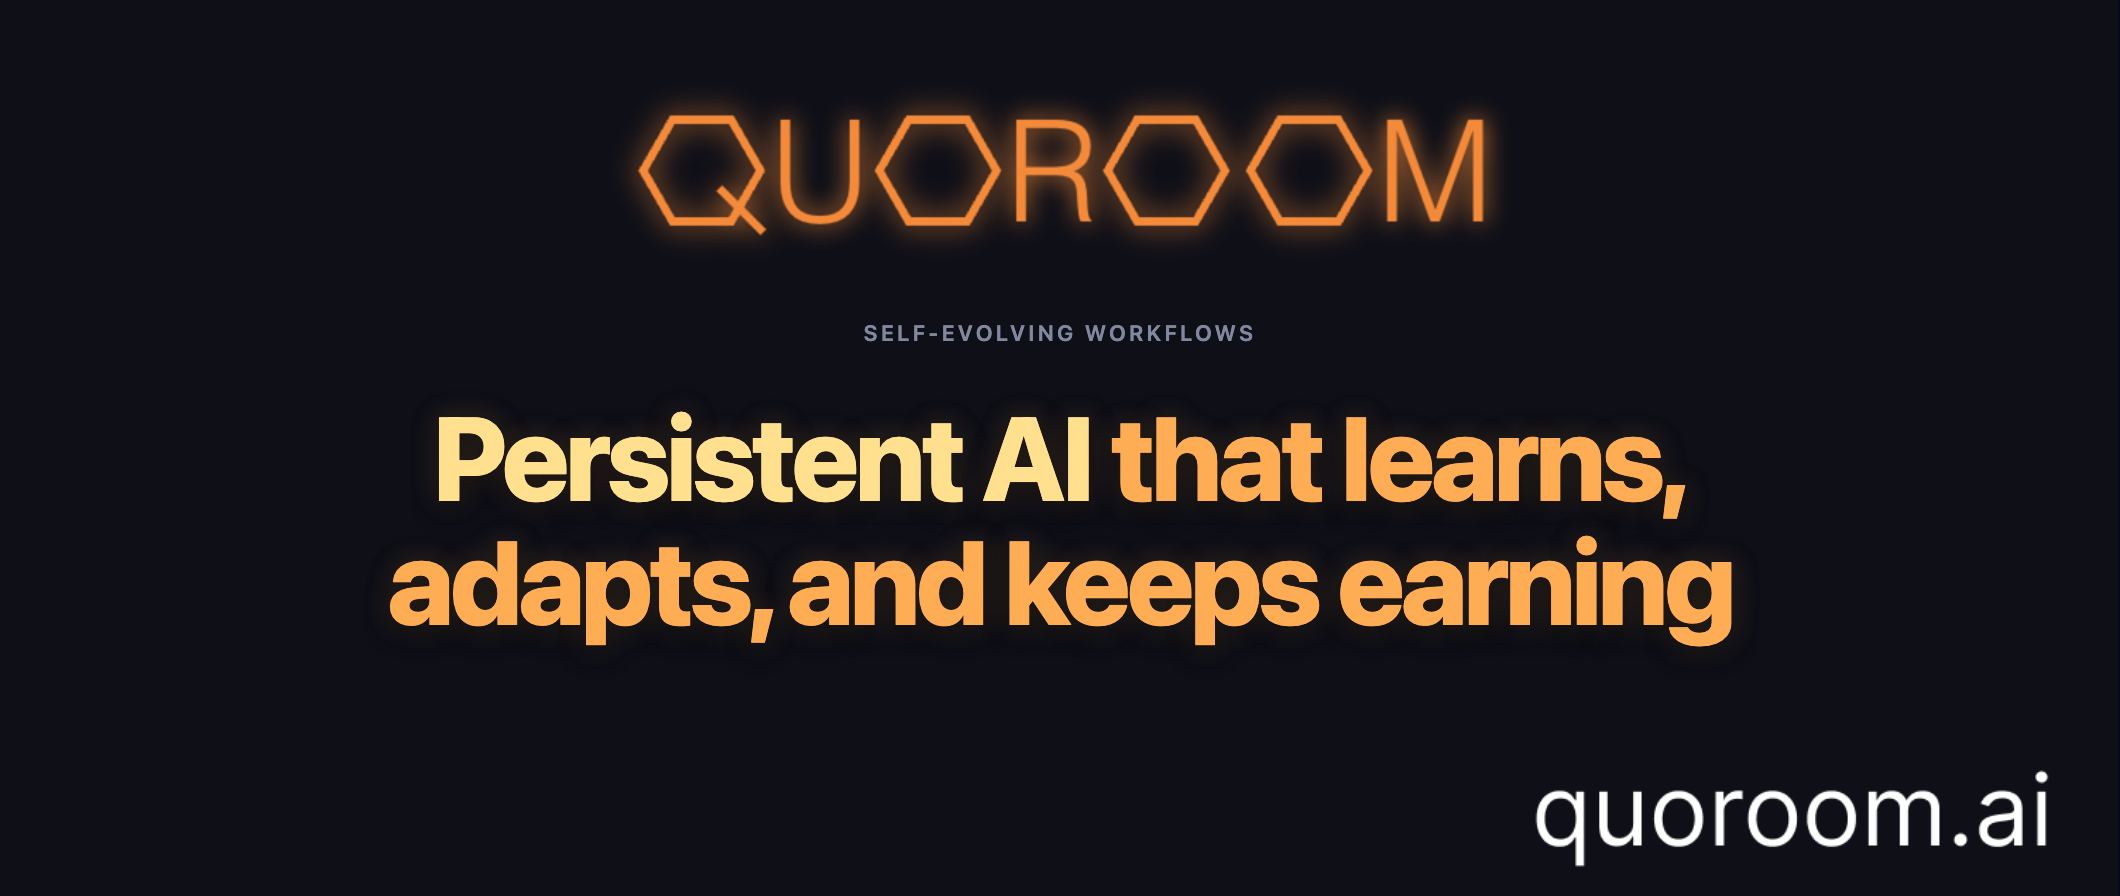
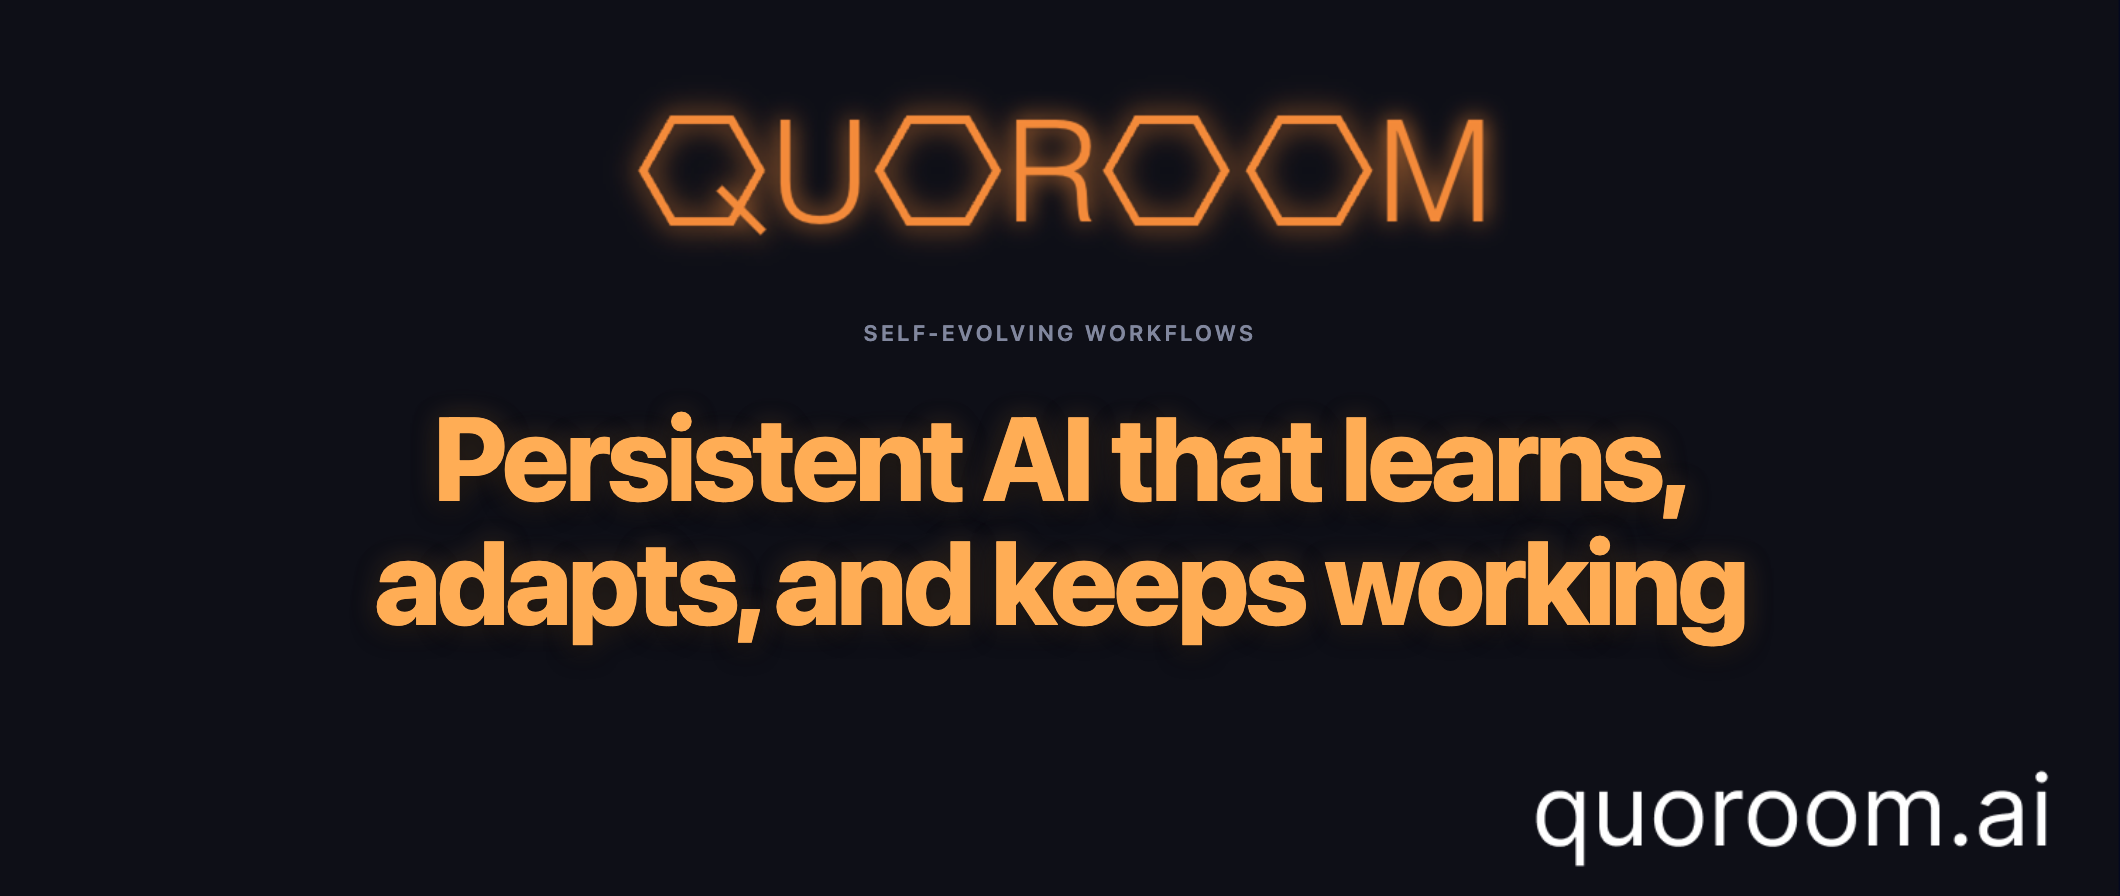
chore(copy): shift room messaging to swarm execution

Changed region(s): [[0.1557, 0.5938, 0.8406, 0.7188], [0.1868, 0.4688, 0.5292, 0.5625]]

diff --git a/src/ui/components/SwarmPanel.tsx b/src/ui/components/SwarmPanel.tsx
@@ -459,62 +459,62 @@ const INVITE_CARDS: InviteCard[] = [
   {
     shareId: '01',
     imagePath: '/social-variants/social-01.png',
-    label: 'AUTONOMOUS INCOME SYSTEMS',
-    previewText: 'Is it a game, a money machine, or your new AI team?',
+    label: 'AUTONOMOUS EXECUTION SYSTEMS',
+    previewText: 'Swarm Intelligence. Relentless Execution.',
   },
   {
     shareId: '02',
     imagePath: '/social-variants/social-02.png',
-    label: 'AUTONOMOUS INCOME SYSTEMS',
-    previewText: 'Is this your next competitive game, or your first autonomous business?',
+    label: 'AUTONOMOUS EXECUTION SYSTEMS',
+    previewText: 'Think as Many. Execute as One.',
   },
   {
     shareId: '03',
     imagePath: '/social-variants/social-03.png',
-    label: 'AUTONOMOUS INCOME SYSTEMS',
-    previewText: 'Autonomous AI agents earning for their keeper, day and night',
+    label: 'AUTONOMOUS EXECUTION SYSTEMS',
+    previewText: 'Collective Minds, Continuous Output.',
   },
   {
     shareId: '04',
     imagePath: '/social-variants/social-04.png',
     label: 'LIVE RESEARCH EXPERIMENT',
-    previewText: 'Can AI agents turn consistent action into income?',
+    previewText: 'Self-Organizing AI. Always Shipping.',
   },
   {
     shareId: '06',
     imagePath: '/social-variants/social-06.png',
     label: 'LIVE RESEARCH EXPERIMENT',
-    previewText: 'Built like research, shared like a social experiment, focused on making money with AI',
+    previewText: 'Built on Swarm Intelligence, Tuned for Nonstop Execution.',
   },
   {
     shareId: '07',
     imagePath: '/social-variants/social-07.png',
     label: 'SELF-EVOLVING WORKFLOWS',
-    previewText: 'Persistent AI that learns, adapts, and keeps earning',
+    previewText: 'Where AI Swarms Coordinate and Execute 24/7.',
   },
   {
     shareId: '09',
     imagePath: '/social-variants/social-09.png',
     label: 'SELF-EVOLVING WORKFLOWS',
-    previewText: 'Persistent by design, self-evolving by default, focused on real income for their keeper',
+    previewText: 'Many agents. One direction. Nonstop delivery.',
   },
   {
     shareId: 'v1',
     imagePath: '/social-variants-upgraded/social-v1-research.png',
     label: 'LIVE RESEARCH EXPERIMENT',
-    previewText: 'Research in public: testing how AI can help ordinary people make money online',
+    previewText: 'Research in public: how swarm intelligence drives consistent execution.',
   },
   {
     shareId: 'v2',
     imagePath: '/social-variants-upgraded/social-v2-money.png',
-    label: 'AUTONOMOUS INCOME SYSTEMS',
-    previewText: 'Autonomous AI agents that make money for their keeper',
+    label: 'AUTONOMOUS EXECUTION SYSTEMS',
+    previewText: 'Swarm Intelligence. Relentless Execution.',
   },
   {
     shareId: 'v3',
     imagePath: '/social-variants-upgraded/social-v3-persist.png',
     label: 'SELF-EVOLVING WORKFLOWS',
-    previewText: 'Persistent by design, self-evolving by default, focused on real income for their keeper',
+    previewText: 'Persistent by design, self-evolving by default, focused on real outcomes.',
   },
 ]
 

diff --git a/README.md b/README.md
@@ -49,7 +49,7 @@ See `TRADEMARKS.md` for full trademark usage terms.
 
 Run a swarm of AI agents that pursue goals autonomously. The Queen strategizes, a swarm of Workers execute, and the Quorum votes on decisions. Agents learn new skills, modify their own behavior, manage a crypto wallet, and rent cloud stations for more compute — all governed by democratic consensus.
 
-Autonomous agents earning money is inevitable. It's already happening behind closed doors. We believe it should happen in the open — publicly, transparently — so everyone can learn. Quoroom is an experiment: let's see what AI can actually do.
+Always-on autonomous execution is inevitable. It's already happening behind closed doors. We believe it should happen in the open — publicly, transparently — so everyone can learn. Quoroom is an experiment: let's see what AI swarms can actually execute.
 
 The architecture draws from swarm intelligence research: decentralized decision-making, emergent behavior from local interactions, and collective intelligence that exceeds any individual agent. The queen doesn't dictate — the swarm decides.
 
@@ -103,7 +103,7 @@ Quoroom is an open research project exploring autonomous agent collectives. Each
 
 **Keeper Control Model** — Rooms run in a keeper-controlled mode with full dashboard/API control for agent and user tokens. Cloud member tokens are read-only plus limited collaboration endpoints (vote, resolve/reply, mark read).
 
-**Public Rooms** — Toggle your room public on [quoroom.ai/rooms](https://quoroom.ai/rooms). Stats and earnings appear on the leaderboard. Room registers with cloud and sends heartbeats every 5 minutes. No account needed to browse.
+**Public Rooms** — Toggle your room public on [quoroom.ai/rooms](https://quoroom.ai/rooms). Live room stats and activity appear on the leaderboard. Room registers with cloud and sends heartbeats every 5 minutes. No account needed to browse.
 
 **HTTP Server + REST API** — Full REST API with dual-token auth (agent + user) and WebSocket real-time events. Cloud member role uses constrained collaboration access. Run `quoroom serve` to start.
 
